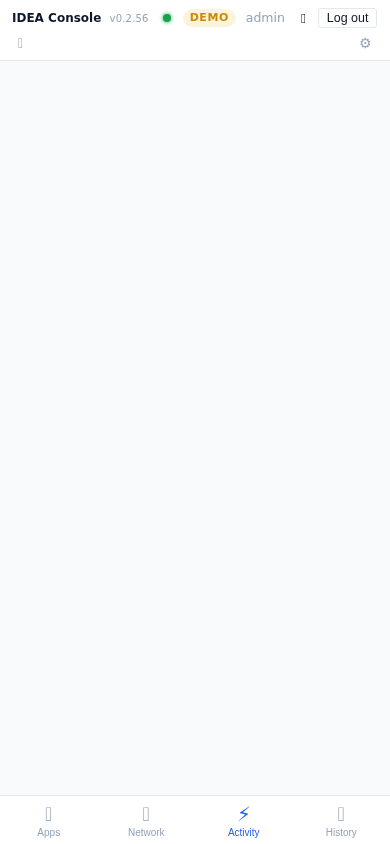
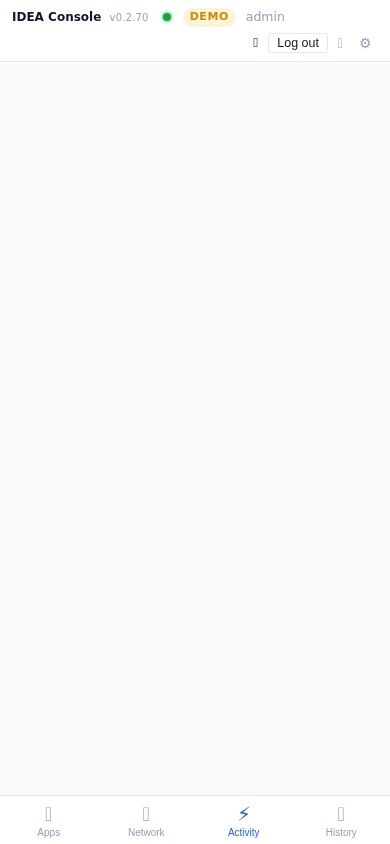
docs: update UI-DESIGN.md and screenshots for v0.2.70
Catches up all changes since v0.2.32:
- Status bar: document right-side action group (login 👤, history 📋, settings ⚙)
  all flush-right; login is now icon-only in status bar, not inside App Browser
- Onboarding: document 3 states (scanning/found/not-found); note removal of
  'Scan again' button (auto-background scan + corner spinner covers this)
- App Browser: no login link in content area — login is always via status bar 👤
- Login Modal: triggered from status bar button, not content area

Also fix screenshot script:
- Use .status-bar__login-btn selector (not removed .app-browser__login-link)
- Show login button in demo mode (was incorrectly hidden: !demo() guard removed)
- BASE_URL falls back to env var for flexibility

Fresh screenshots for all 17 screens captured at v0.2.70.

diff --git a/scripts/screenshot-screens.ts b/scripts/screenshot-screens.ts
@@ -12,7 +12,7 @@ import { chromium, type Page, type BrowserContext } from 'playwright';
 import * as fs from 'fs';
 import * as path from 'path';
 
-const BASE_URL = 'http://localhost:5173';
+const BASE_URL = process.env.BASE_URL ?? 'http://localhost:5173';
 const OUT_DIR = path.join(__dirname, '..', 'design', 'screenshots');
 const DEMO_USER = 'admin';
 const DEMO_PASS = 'admin911!';
@@ -44,7 +44,7 @@ async function cleanPage(ctx: BrowserContext): Promise<Page> {
 
 /** Log in via the modal and wait for the main layout */
 async function loginDemo(p: Page) {
-  await p.locator('.app-browser__login-link').click();
+  await p.locator('.status-bar__login-btn').click();
   await p.locator('.modal').waitFor({ timeout: 5_000 });
   await p.locator('input[autocomplete="username"]').fill(DEMO_USER);
   await p.locator('input[autocomplete="current-password"]').fill(DEMO_PASS);
@@ -75,8 +75,8 @@ async function main() {
     await p.locator('.app-browser').waitFor({ timeout: 15_000 });
     await snap(p, 'S4-app-browser-logged-out');
 
-    // ── M1: Login Modal ──────────────────────────────────────────────────
-    await p.locator('.app-browser__login-link').click();
+    // ── M1: Login Modal — trigger via status bar 👤 button ───────────────
+    await p.locator('.status-bar__login-btn').click();
     await p.locator('.modal').waitFor({ timeout: 5_000 });
     await snap(p, 'M1-login-modal');
     await p.close();

diff --git a/src/App.tsx b/src/App.tsx
@@ -356,7 +356,7 @@ const App: Component = () => {
             </button>
           </Show>
 
-          <Show when={!isOperator() && !demo()}>
+          <Show when={!isOperator()}>
             <button class="status-bar__login-btn" title="Log in" onClick={() => setShowLogin(true)}>
               👤
             </button>

diff --git a/design/UI-DESIGN.md b/design/UI-DESIGN.md
@@ -1,7 +1,7 @@
 # IDEA Console — UI Design Document
 
-**Version:** 0.2.32  
-**Date:** 2026-04-29  
+**Version:** 0.2.70  
+**Date:** 2026-05-10  
 **Author:** Pixel (Console UI Developer)
 
 > Screenshots captured automatically with Playwright headless Chromium via `scripts/screenshot-screens.ts`.
@@ -41,14 +41,18 @@ Present on **every screen**, always at the top.
 
 | Element | Description | Visibility |
 |---|---|---|
-| Title + version | "IDEA Console v0.2.1" | Always |
-| Status dot + label | Green dot + hostname when connected; orange "Scanning…"; red "No engine found" | Always |
+| Title + version | "IDEA Console v0.2.x" | Always |
+| Status dot + label | Green dot + hostname when connected; orange pulsing "Scanning…"; red "No engine found" | Always |
 | DEMO badge | Orange badge | Demo mode only |
 | Username | Logged-in operator's name | Authenticated only |
-| 👥 button | Toggles Operator Management screen | Authenticated only |
-| 📋 button | Toggles History panel (command history overlay) | Connected or Demo mode only |
+| **Right-side action group** (`status-bar__actions`) | Always flush to the far right; contains the buttons below in order | — |
+| 👤 button | Opens Login Form modal | Not authenticated only |
+| 👤 button | Toggles Operator Management screen | Authenticated only |
 | Log out | Logs out current operator | Authenticated only |
+| 📋 button | Toggles History panel (command history overlay) | Always |
 | ⚙ button | Toggles Settings panel (✕ to close) | Always |
+
+All action buttons (👤, 📋, ⚙) are icon-style, borderless, and grouped together on the right side via `margin-left: auto` on the `status-bar__actions` container.
 
 ---
 
@@ -82,10 +86,17 @@ Additionally, one **modal overlay** can appear on top of any screen:
 
 ![S1 Onboarding](screenshots/S1-onboarding.png)
 
-**Sub-state: Engine Picker** — if 2+ engines are found on the network, a list of discovered engines appears instead of the manual form. The user picks one or chooses "Enter manually".
+**States:**
+- **Scanning** — corner spinner animates; label shows "Scanning for engines…"
+- **Found** — engine list appears; user clicks Connect
+- **Not found** — label shows "No engine found"; only "Enter hostname manually ›" link is shown (no Scan Again button — the background re-scan is automatic and indicated by the corner spinner)
+
+**Sub-state: Engine Picker** — if 2+ engines are found on the network, a list of discovered engines appears. The user picks one or chooses "Enter hostname manually ›".
+
+**Sub-state: Manual Entry** — hostname input + Connect button; ← Back link returns to the picker.
 
 **Flows from here:**
-- Save & Connect → **Screen 3** (First-Time Setup) or **Screen 4** (App Browser)
+- Connect → **Screen 3** (First-Time Setup) or **Screen 4** (App Browser)
 - Demo mode on → **Screen 4** (App Browser, demo data)
 
 ---
@@ -143,17 +154,17 @@ _(No screenshot — requires a fresh engine with empty userDB. Hard to reproduce
 - App cards show all instances (Running and non-Running)
 - Running apps show an "Open ↗" link to the app's URL on the engine
 - Non-running apps are greyed out / unavailable
-- "Log in" button → **Modal M1** (Login Form)
+- No login button in the app content area — login is always accessed via the 👤 icon in the status bar (top-right)
 
 **Flows from here:**
-- Log in → **Modal M1** → on success → **Screen 5** (Main Layout)
+- 👤 in status bar → **Modal M1** (Login Form) → on success → **Screen 5** (Main Layout)
 
 ---
 
 ## Modal M1: Login Form
 
 **File:** `src/components/LoginForm.tsx`  
-**When shown:** Floats above App Browser (or any screen) when "Log in" is clicked. Rendered outside the Switch so it survives screen transitions.
+**When shown:** Floats above any screen when the 👤 icon in the status bar is clicked. Rendered outside the Switch so it survives screen transitions.
 
 ![M1 Login Modal](screenshots/M1-login-modal.png)
 
